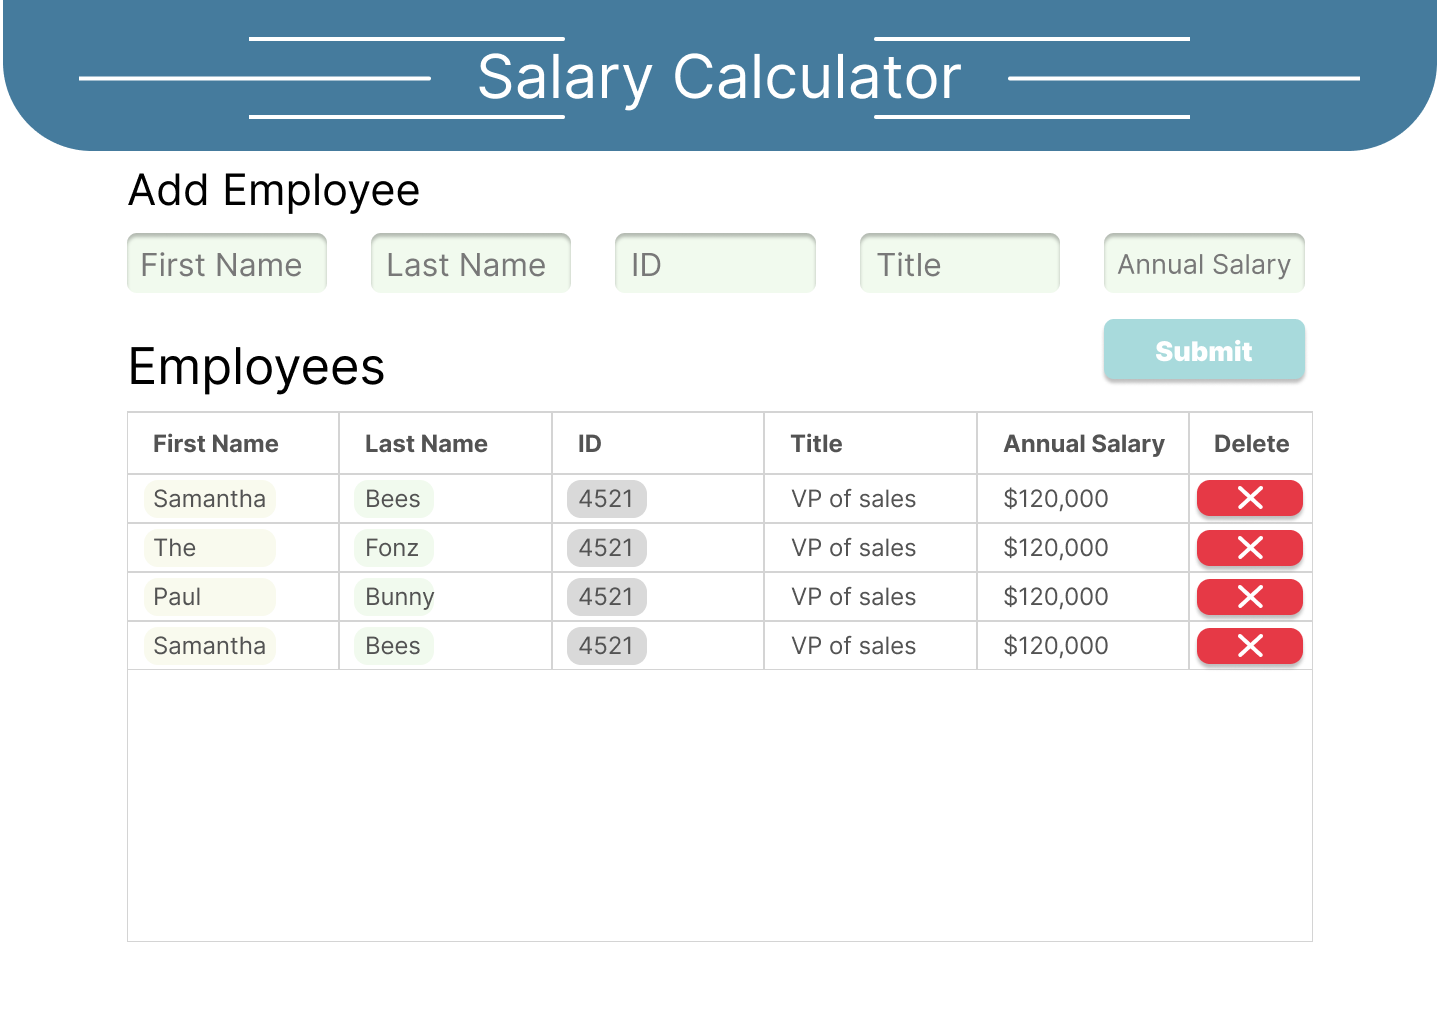
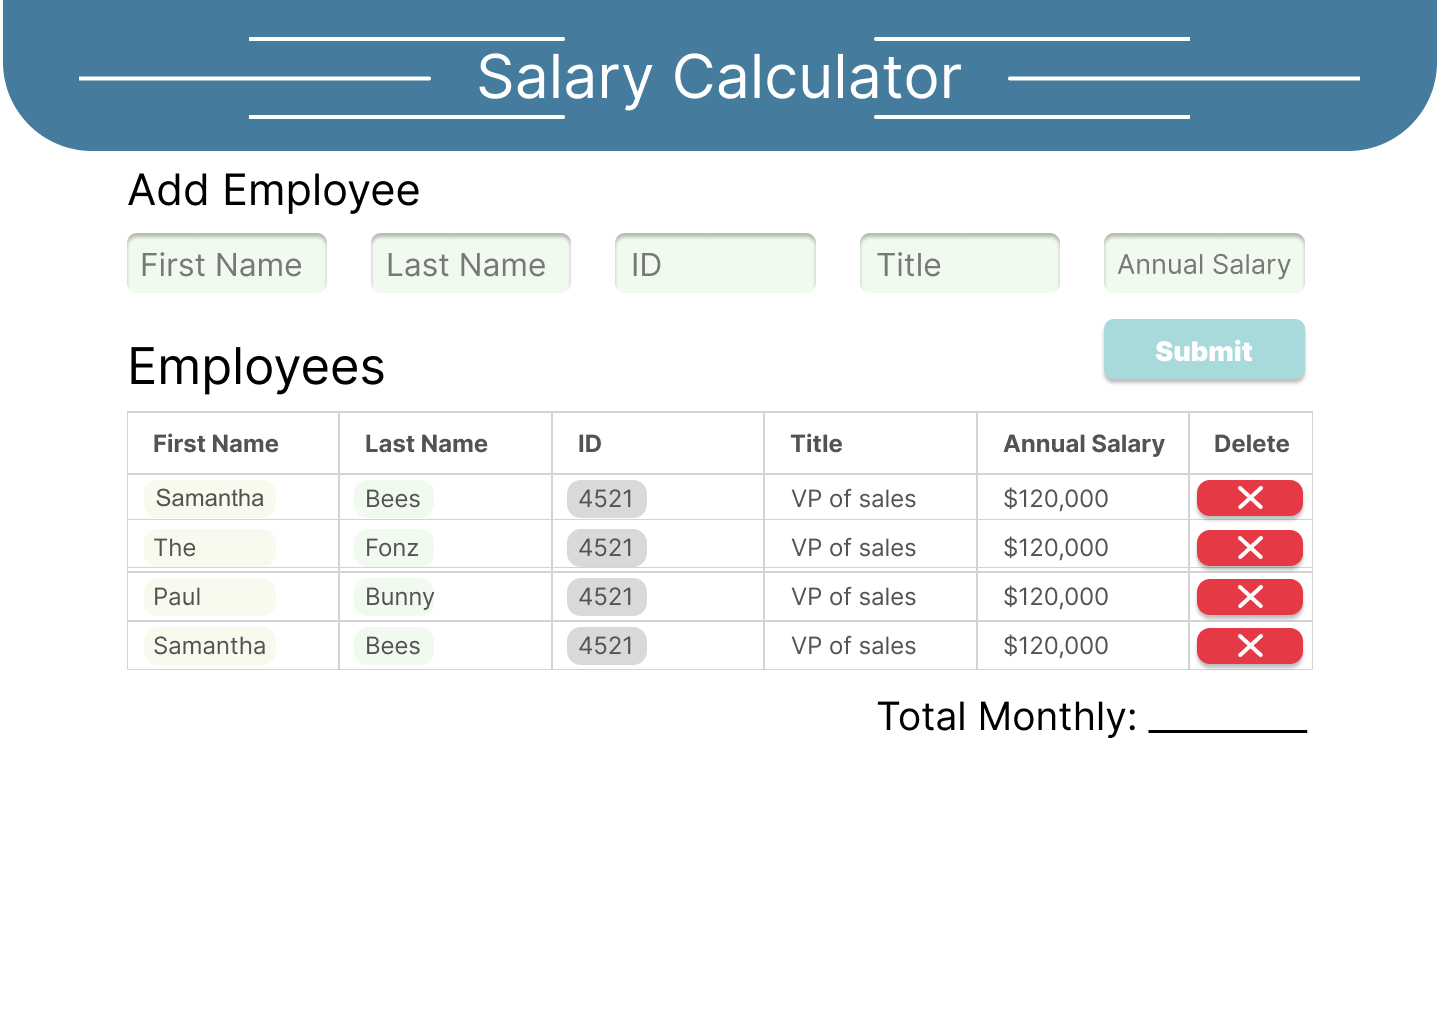
Done

Changed region(s): [[0.5938, 0.6875, 0.7812, 0.7188], [0.0938, 0.4688, 0.1875, 0.5]]

diff --git a/script.js b/script.js
@@ -13,7 +13,8 @@ function readyNow() {
 
 //This is the on click section
 $ ('#submitButton').on('click', transferEntry)
-$('#mainTable').on('click','#remove', removeEntry);
+
+$('#mainTable').on('click','.remove', removeEntry);
 
 
 }
@@ -36,7 +37,7 @@ let idInput = $('#id').val();
 let titleInput = $('#title').val();
 let annualSalaryInput = $('#annualSalary').val();
 //its a number so do we need to do anything with this?^
-//same for id
+//same for id (NOPE)
 
 // setting up the things to go in
 let addTableRow = `
@@ -52,26 +53,138 @@ let addTableRow = `
             </button>
         </td>
     </tr>`;
-//insert the delete button
+//inserts the delete button
+
+
+
+$('#firstName').val('');
+$('#lastName').val('');
+$('#id').val('');
+$('#title').val('');
+$('#annualSalary').val('');
+
+
+
+//THIS SECTION IS NEEDED BUT BROKE EVERYTHING************************************
+
+//Make annualSalaryInput a string 
+
+// let makeStringOfAnnualSalaryInput = annualSalaryInput.toString();
+
+// //REMOVE COMMAS from 'annualSalaryInput' so the math works
+// let sterilizedSalary = makeStringOfAnnualSalaryInput.replace(/,/g, '');
+
+//Make AnnualSalaryInput back into a number with parseInt
 
 //sum up annual salaries
 sumOfAnnualSalaryInput += parseInt(annualSalaryInput);
 
-console.log(sumOfAnnualSalaryInput);
-//now the code on 66 to 71 doesn't run (clearing data from the boxes)***********************************************************
+
+
+//Here we are adding commas
+let SalaryWithCommas = sumOfAnnualSalaryInput.toLocaleString(); 
+// let sumOfAnnualSalaryInputWithCommas = sumOfAnnualSalaryInput.toLocaleString();
+// var formattedModifiedValue = modifiedValue.toLocaleString();
+
+
+//THIS above SECTION IS NEEDED BUT BROKE EVERYTHING************************************
+
+
+
+
+
+
+
+
+// console.log(sumOfAnnualSalaryInputWithCommas);
+//now the code (clearing data from the boxes) doesn't run***********************************************************
+
+
+
+
+
+
+
 
 //actually inserting the row of data
 $('#mainTable').append(addTableRow);
 
+//Example Code (formatting "," (remove if they have it then add it back))
+
+
+    // Remove any existing commas from the input value
+    // var sanitizedValue = inputValue.replace(/,/g, '');
+
+    
+//Something to note we want to sum them up before we put commas back in
+//then add commas to both the annualSalaryInput and sumOfAnnualSalaryInput
+
+    // Add commas back to the modified value
+    // var formattedModifiedValue = modifiedValue.toLocaleString();
+    
+    // Display the result
+    // $("#result").text("Result: $" + formattedModifiedValue);
+//Example Code (end)
+
+//THE PLAN FOR MANAGING COMMAS
+
+//my attempt at "sanitizing" the inputs that include ','
+
+//adding them up
+
+//then adding them back and displaying the result
+
+
+
+
+
 
 //clearing the data from the boxes (WHY DOESN't this run anymore?)
-$('#firsNameInput').val( '' );
-$('#lastNameInput').val( '' );
-$('#idInput').val( '' );
-$('#titleInput').val( '' );
-$('#annualSalaryInput').val( '' );
+// $('#firsNameInput').val( '' );
+// $('#lastNameInput').val( '' );
+// $('#idInput').val( '' );
+// $('#titleInput').val( '' );
+// $('#annualSalaryInput').val( '' );
 
-$('#sumSalaries').text('Total Sum: $' + sumOfAnnualSalaryInput)
+$('#sumSalaries').text('Total Sum: $' + SalaryWithCommas);
+
+
+//✅(final part)   If the total monthly cost exceeds $20,000, add a red background color to the total monthly cost.
+
+if (sumOfAnnualSalaryInput > 20000) {
+    $('#sumSalaries').css({
+      "background-color": "#E63946",
+      "color": "White",
+      "border": "none",
+      "border-radius": "20px"
+    });
+  } else {
+    $('#sumSalaries').css({
+      "background-color": "White",
+      "color": "#535353"
+    });
+  }
+  
+//START EXAMPLE
+// if (condition) {
+//     targetElement.css({
+//       "background-color": "green",
+//       "color": "white"
+//     });
+//   } else {
+//     targetElement.css({
+//       "background-color": "red",
+//       "color": "black"
+//     });
+//   }
+//END EXAMPLE
+
+
+
+
+
+
+
 
 //     let firsNameInput = $('#firstName').val();
 // console.log( "Welcome " + firsNameInput);
@@ -83,9 +196,11 @@ $('#sumSalaries').text('Total Sum: $' + sumOfAnnualSalaryInput)
 
 
 
-
+//this is where the remove button function lives
 function removeEntry(){
     $(this).parents("tr").remove();
+    console.log('SMOKE');
+    // $(this).parentsUntil("tbody").remove();
 }
 
 
@@ -95,9 +210,11 @@ function removeEntry(){
 //  ✅ make if till in each section instead of putting it all in the first box
 //  ✅ make the math work
 //  ✅ add $ sign
-//  ❌(YET TO DO) add "," where necessary
 
-//lesser TO DO
+//  ✅ added removal of commas where necessary so numbers could be processed
+//  ❌(YET TO DO) add "," where necessary (WORKING ON THIS)
+
+//lesser TO DO (nice to have)
 //    make background on text the only part colored in each table element
 //    scale the delete button
 
@@ -108,9 +225,9 @@ function removeEntry(){
 
 //✅ A 'Submit' button should collect the form information,
 //✅store the information to calculate monthly costs
-//❌(broke it)  append information to the DOM and clear the input fields.
+//✅(Fixed it)  append information to the DOM and clear the input fields.
 //✅   Using the stored information, calculate monthly costs and append this to the to DOM.
-//❌(finalpart)   If the total monthly cost exceeds $20,000, add a red background color to the total monthly cost.
+//✅(final part)   If the total monthly cost exceeds $20,000, add a red background color to the total monthly cost.
 
 // Create a delete button that removes an employee from the DOM. For Base mode, it does **not** need to remove that Employee's salary from the reported total.
 //(Not required i guess but it makes sense to have the bellow)

diff --git a/index.html b/index.html
@@ -27,11 +27,11 @@
             
             <input  id="lastName"  placeholder="Last name">
             
-            <input id="id" name="id" placeholder="ID">
+            <input id="id" name="id" type = "number" placeholder="ID">
             
-            <input  id="title"  placeholder="title">
+            <input  id="title"  placeholder="Title">
             
-            <input  id="annualSalary"  placeholder="Annual Salary">
+            <input  id="annualSalary" type = "number" placeholder="Annual Salary">
         </form>
             <button id="submitButton"> Submit </button>
             <!-- we need this right aligned -->

diff --git a/style.css b/style.css
@@ -15,11 +15,9 @@ margin-left: 150px;
     justify-content: center;
     margin-bottom: 40px;
 
-
-
     max-width: 100%;
     height: auto;
-/* again figuring out how to align things */
+/* again figuring out how to align things DONE*/
 }
 
 h2 {
